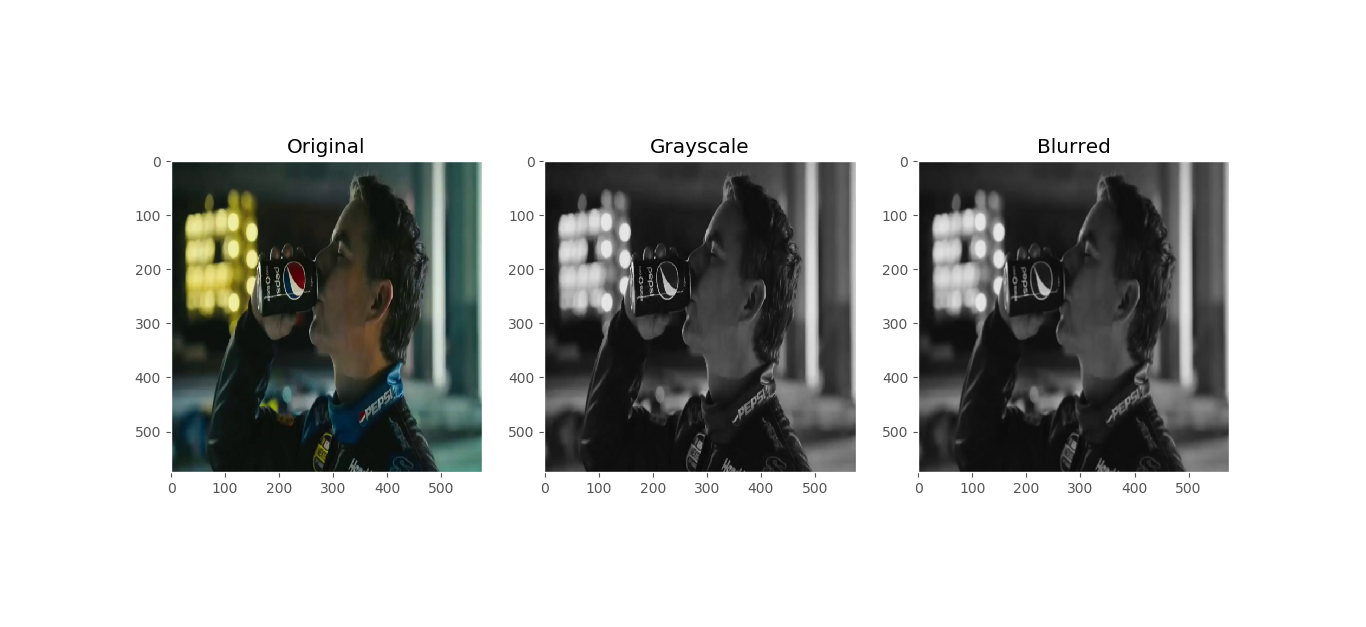
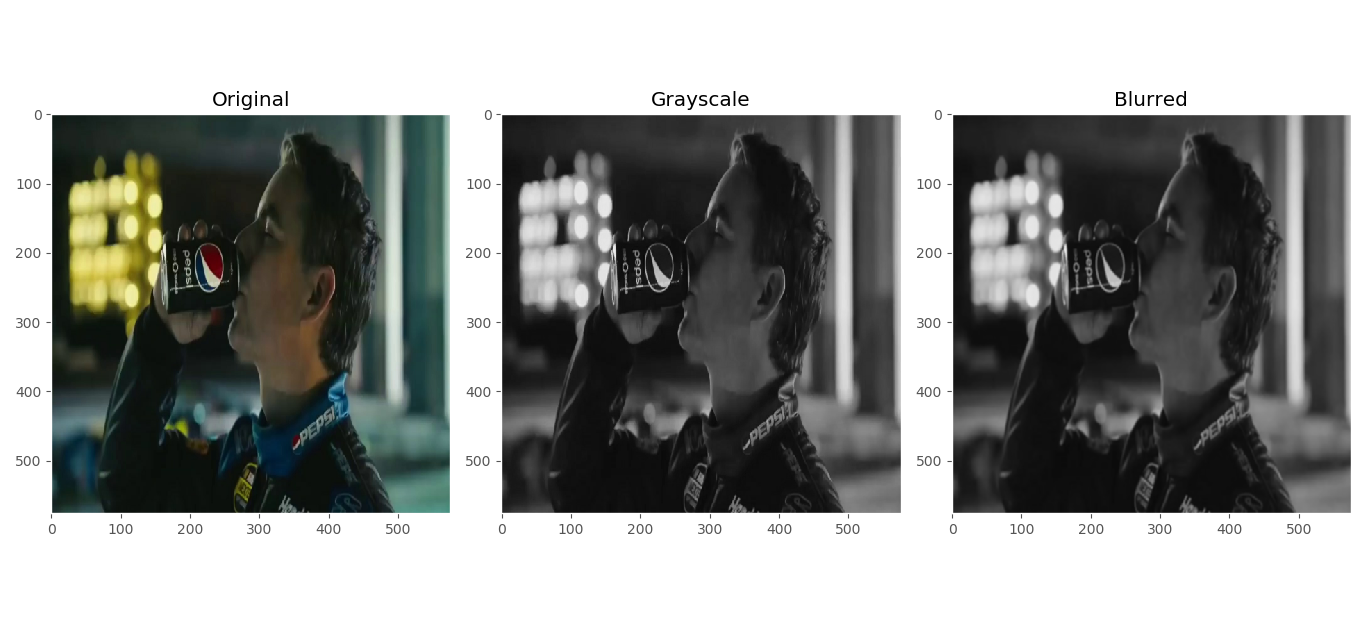
image processing with tensorflow

diff --git a/tensor-processing.py b/tensor-processing.py
@@ -75,7 +75,7 @@ def parse_image(imagepath,grey=False):
     raw_image = tf.io.read_file(imagepath)
     # image = tf.image.decode_jpeg(raw_image, channels=3)   
     
-    fig,axes = plt.subplots(1,3)
+    fig,axes = plt.subplots(1,3,figsize=(20,6))
     
     image = preprocess_image(raw_image)
     axes[0].imshow(image)
@@ -105,7 +105,7 @@ def parse_image(imagepath,grey=False):
 
     first_digit_blurred = apply_convolution_to_image(tf.image.rgb_to_grayscale(image), gaussian_filter)
 
-    fig, axs = plt.subplots(1, 3, figsize=(10, 6))
+    fig, axs = plt.subplots(1, 3, figsize=(20,6))
 
     plot_convolution(image, gaussian_filter, first_digit_blurred, axs)
     for ax in axs.flatten():

diff --git a/README.md b/README.md
@@ -20,12 +20,12 @@ Logo detection and recognition from advertisement videos using OpenCV and Tensor
 
 ### 3a) Blur image with CV2
 <img src='img/cv2 blurring.png'>Use CV2 to blur image.</img>
-<br>use label_segments in detect_circle.py
+
 
 
 ### 3b) Apply Gaussian filter to iamge
 <img src='img/filter_convolution.png'>Gaussian filter (5x5) on grayscale image.</img>
-<br>use label_segments in detect_circle.py
+
 
 ### 3) Detect circles
 use parse_image in detect_cicle.py
